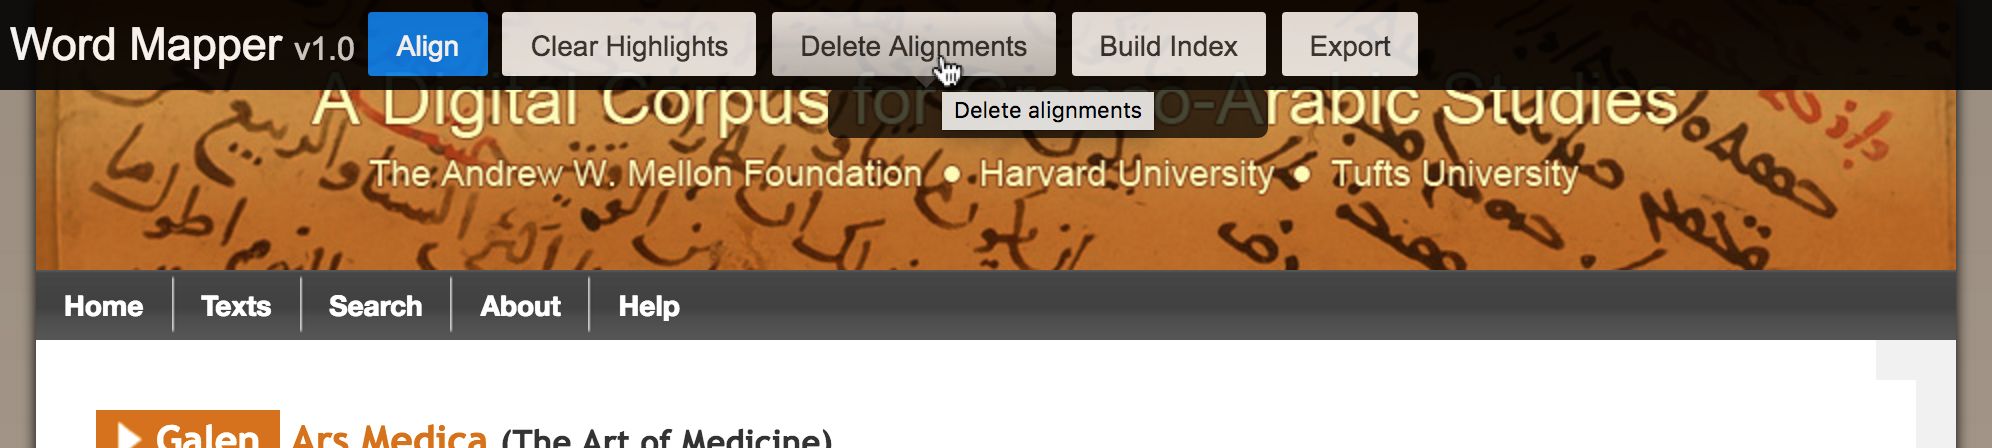
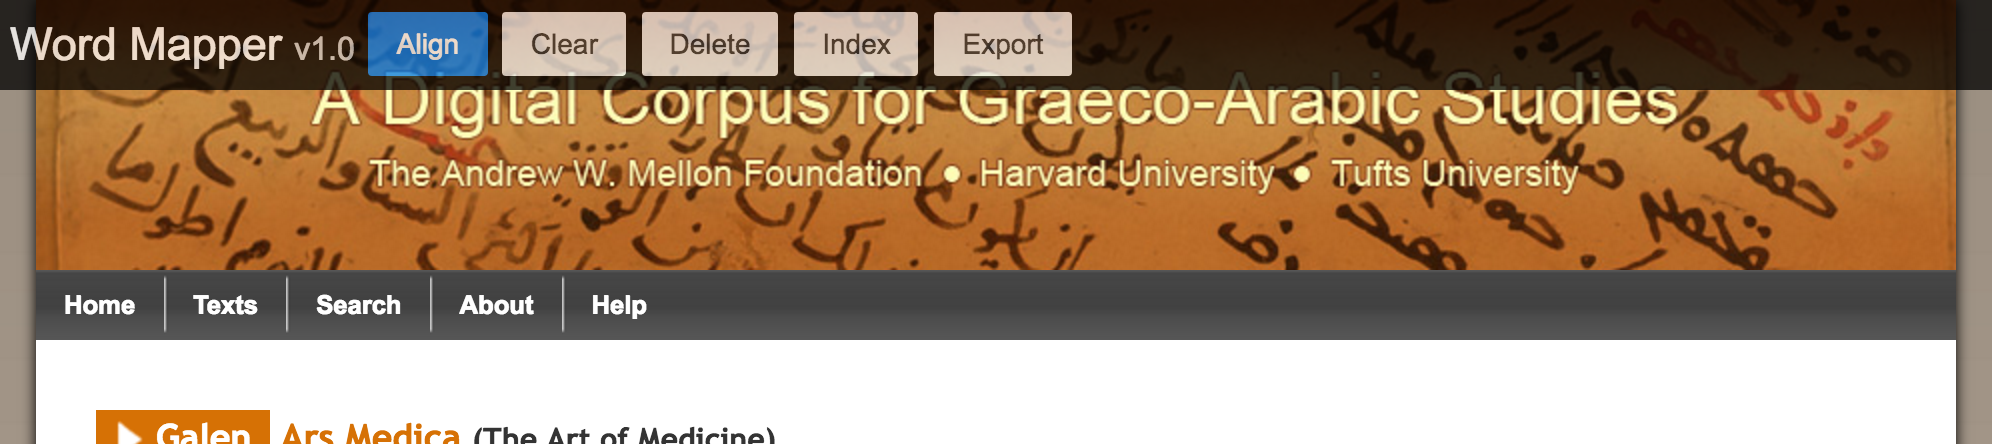
WordMapper_widget_tooltip, proposed screen and UI code

diff --git a/WordMapper_widget_tooltip/index.html b/WordMapper_widget_tooltip/index.html
@@ -1,7 +1,13 @@
 <div class="wordmapper-buttons">
     <button name="align" class="primary wordmapper-tooltip" title="Align highlighted words">Align</button>
-    <button name="clear_highlights" class="wordmapper-tooltip" title="Clear highlighted words">Clear Highlights</button>
-    <button name="clear_alignments" class="wordmapper-tooltip" title="Delete alignments" data-confirm="Are you sure you want to delete *ALL* alignments on this page?">Delete Alignments</button>
-    <button name="build_index" class="wordmapper-tooltip" title="Build index of aligned words">Build Index</button>
+
+<!-- UI comment, remove the word "Highlights" to be consistent with the othehr buttons and since the tooltip provides the information -->
+    <button name="clear_highlights" class="wordmapper-tooltip" title="Clear highlighted words">Clear</button>
+
+<!-- UI comment, removegthe word "Alignments" since it matches with the tooltip -->
+    <button name="clear_alignments" class="wordmapper-tooltip" title="Delete alignments" data-confirm="Are you sure you want to delete *ALL* alignments on this page?">Delete</button>
+
+<!-- UI comment - Remove the word "Build" to be consistent with the other buttons, which show only one word, one verb -->
+    <button name="build_index" class="wordmapper-tooltip" title="Build index of aligned words">Index</button>
     <button name="export" class="wordmapper-tooltip" title="Export the aligned words">Export</button>
   </div>
